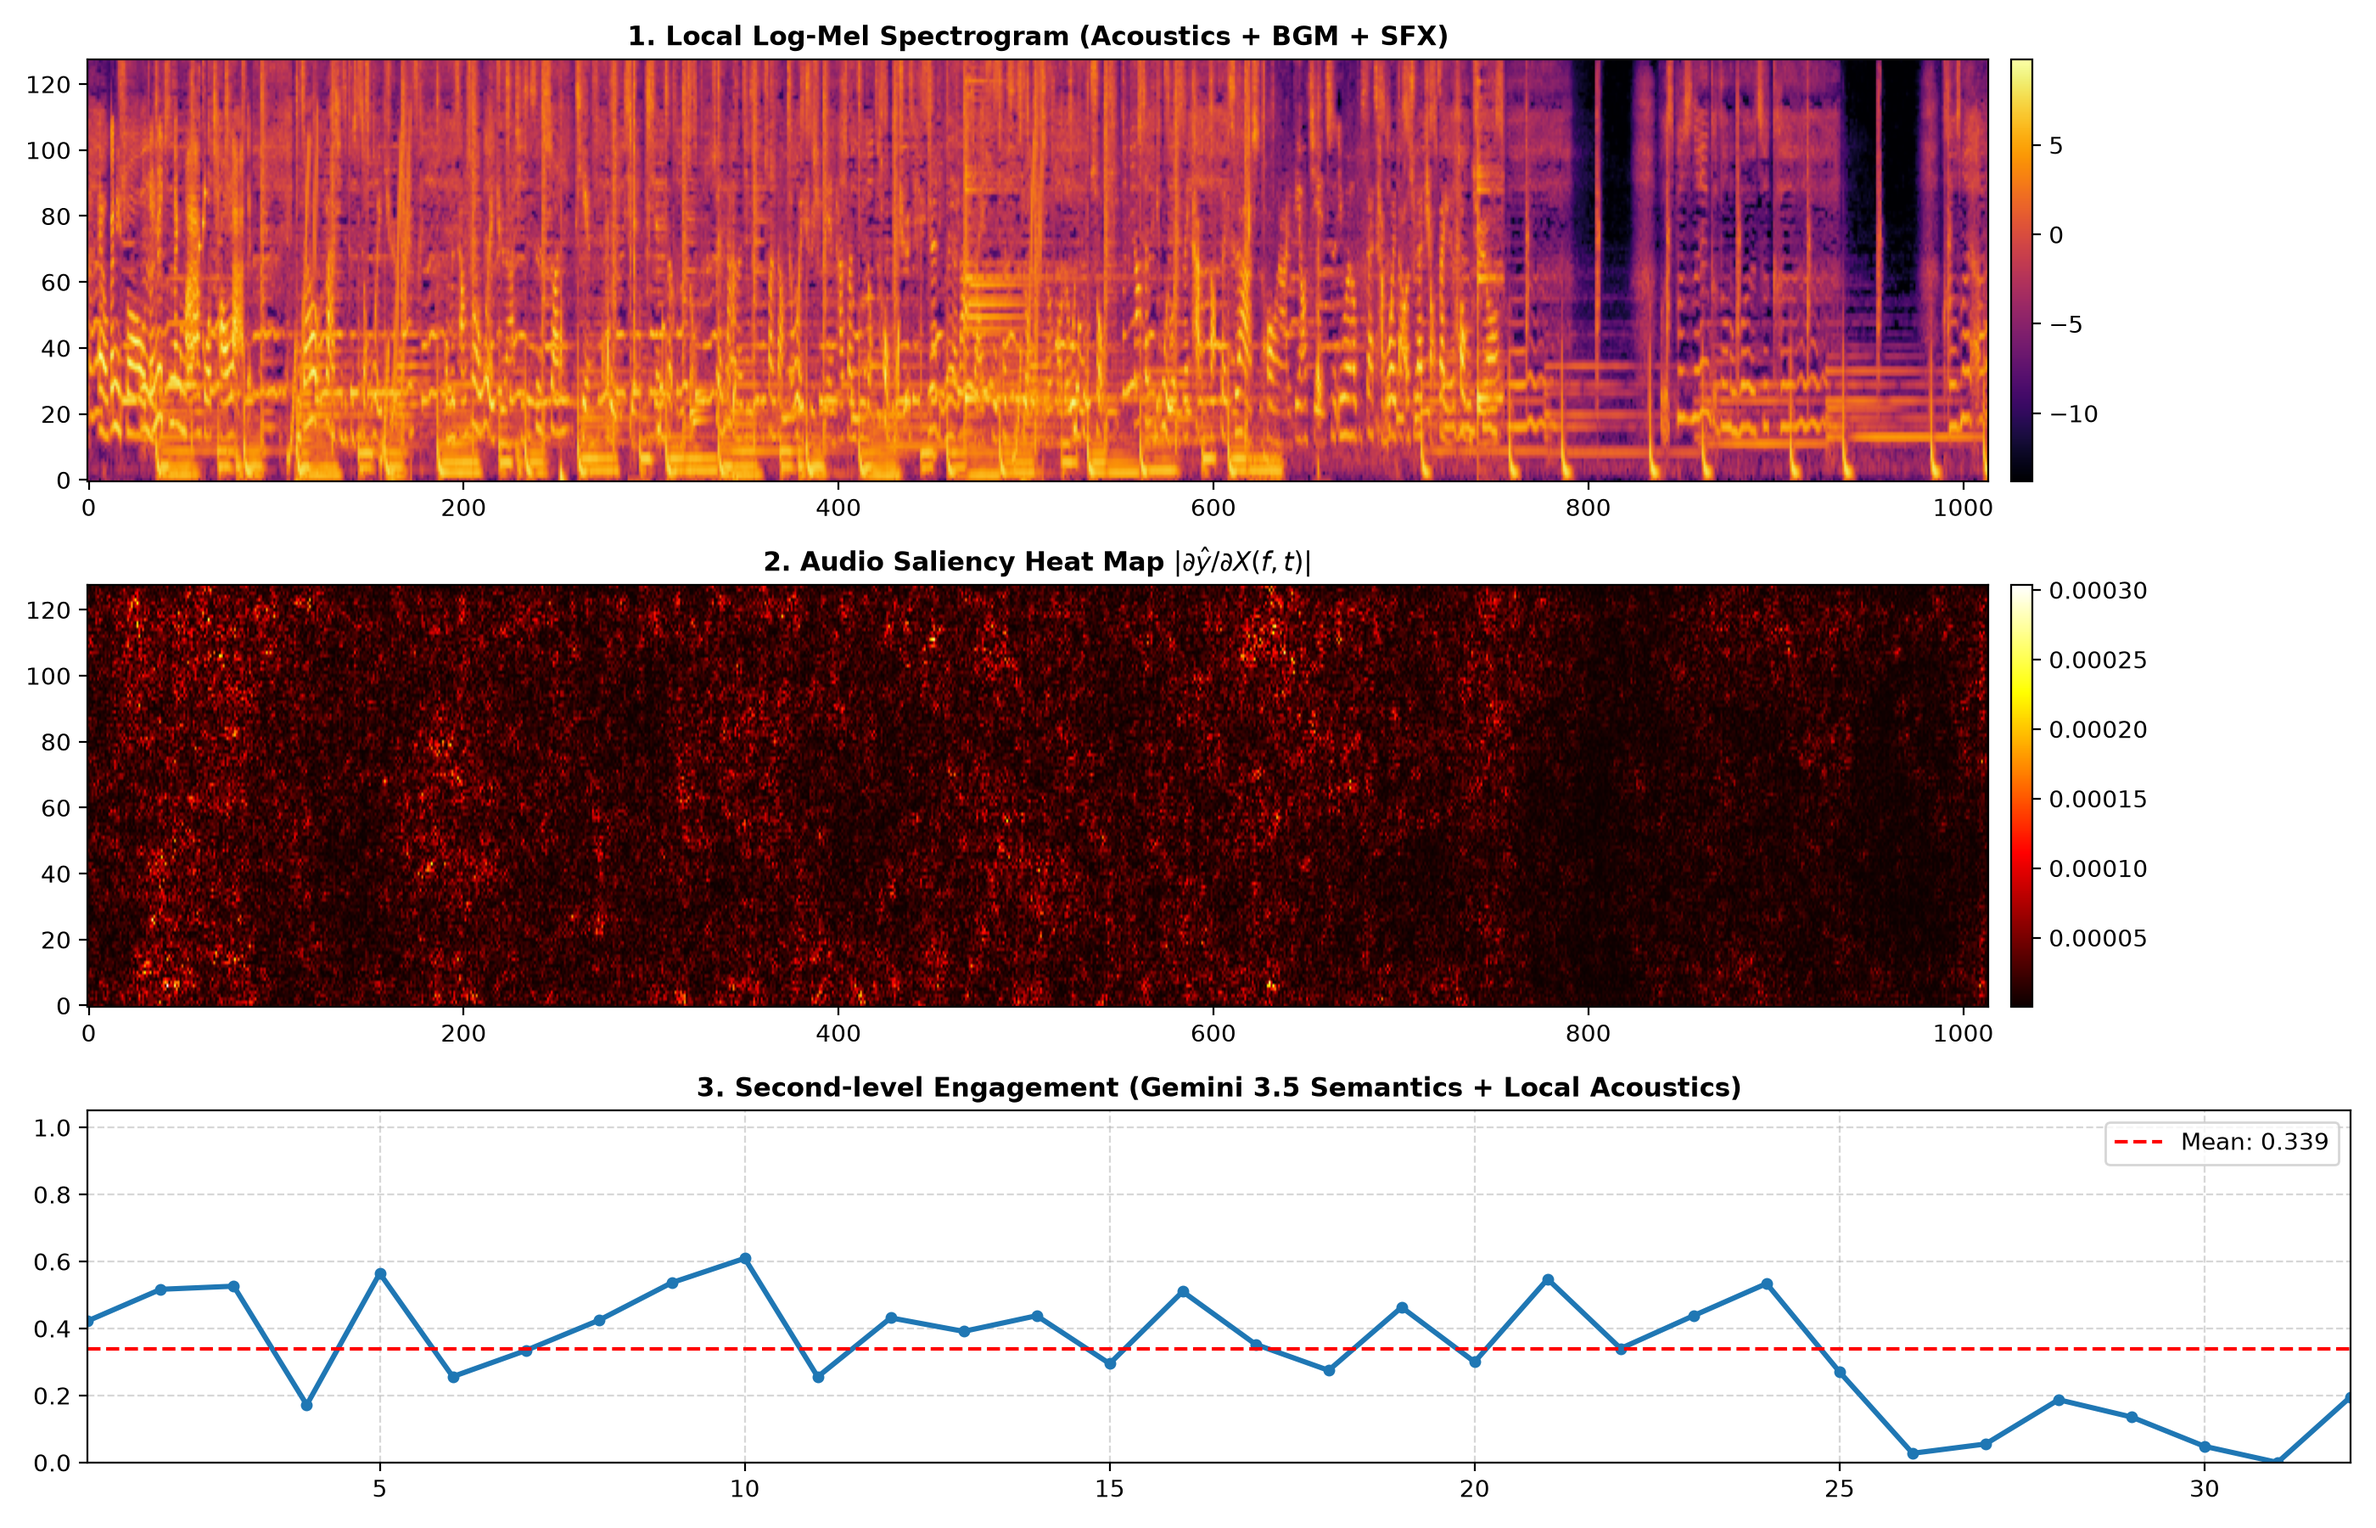
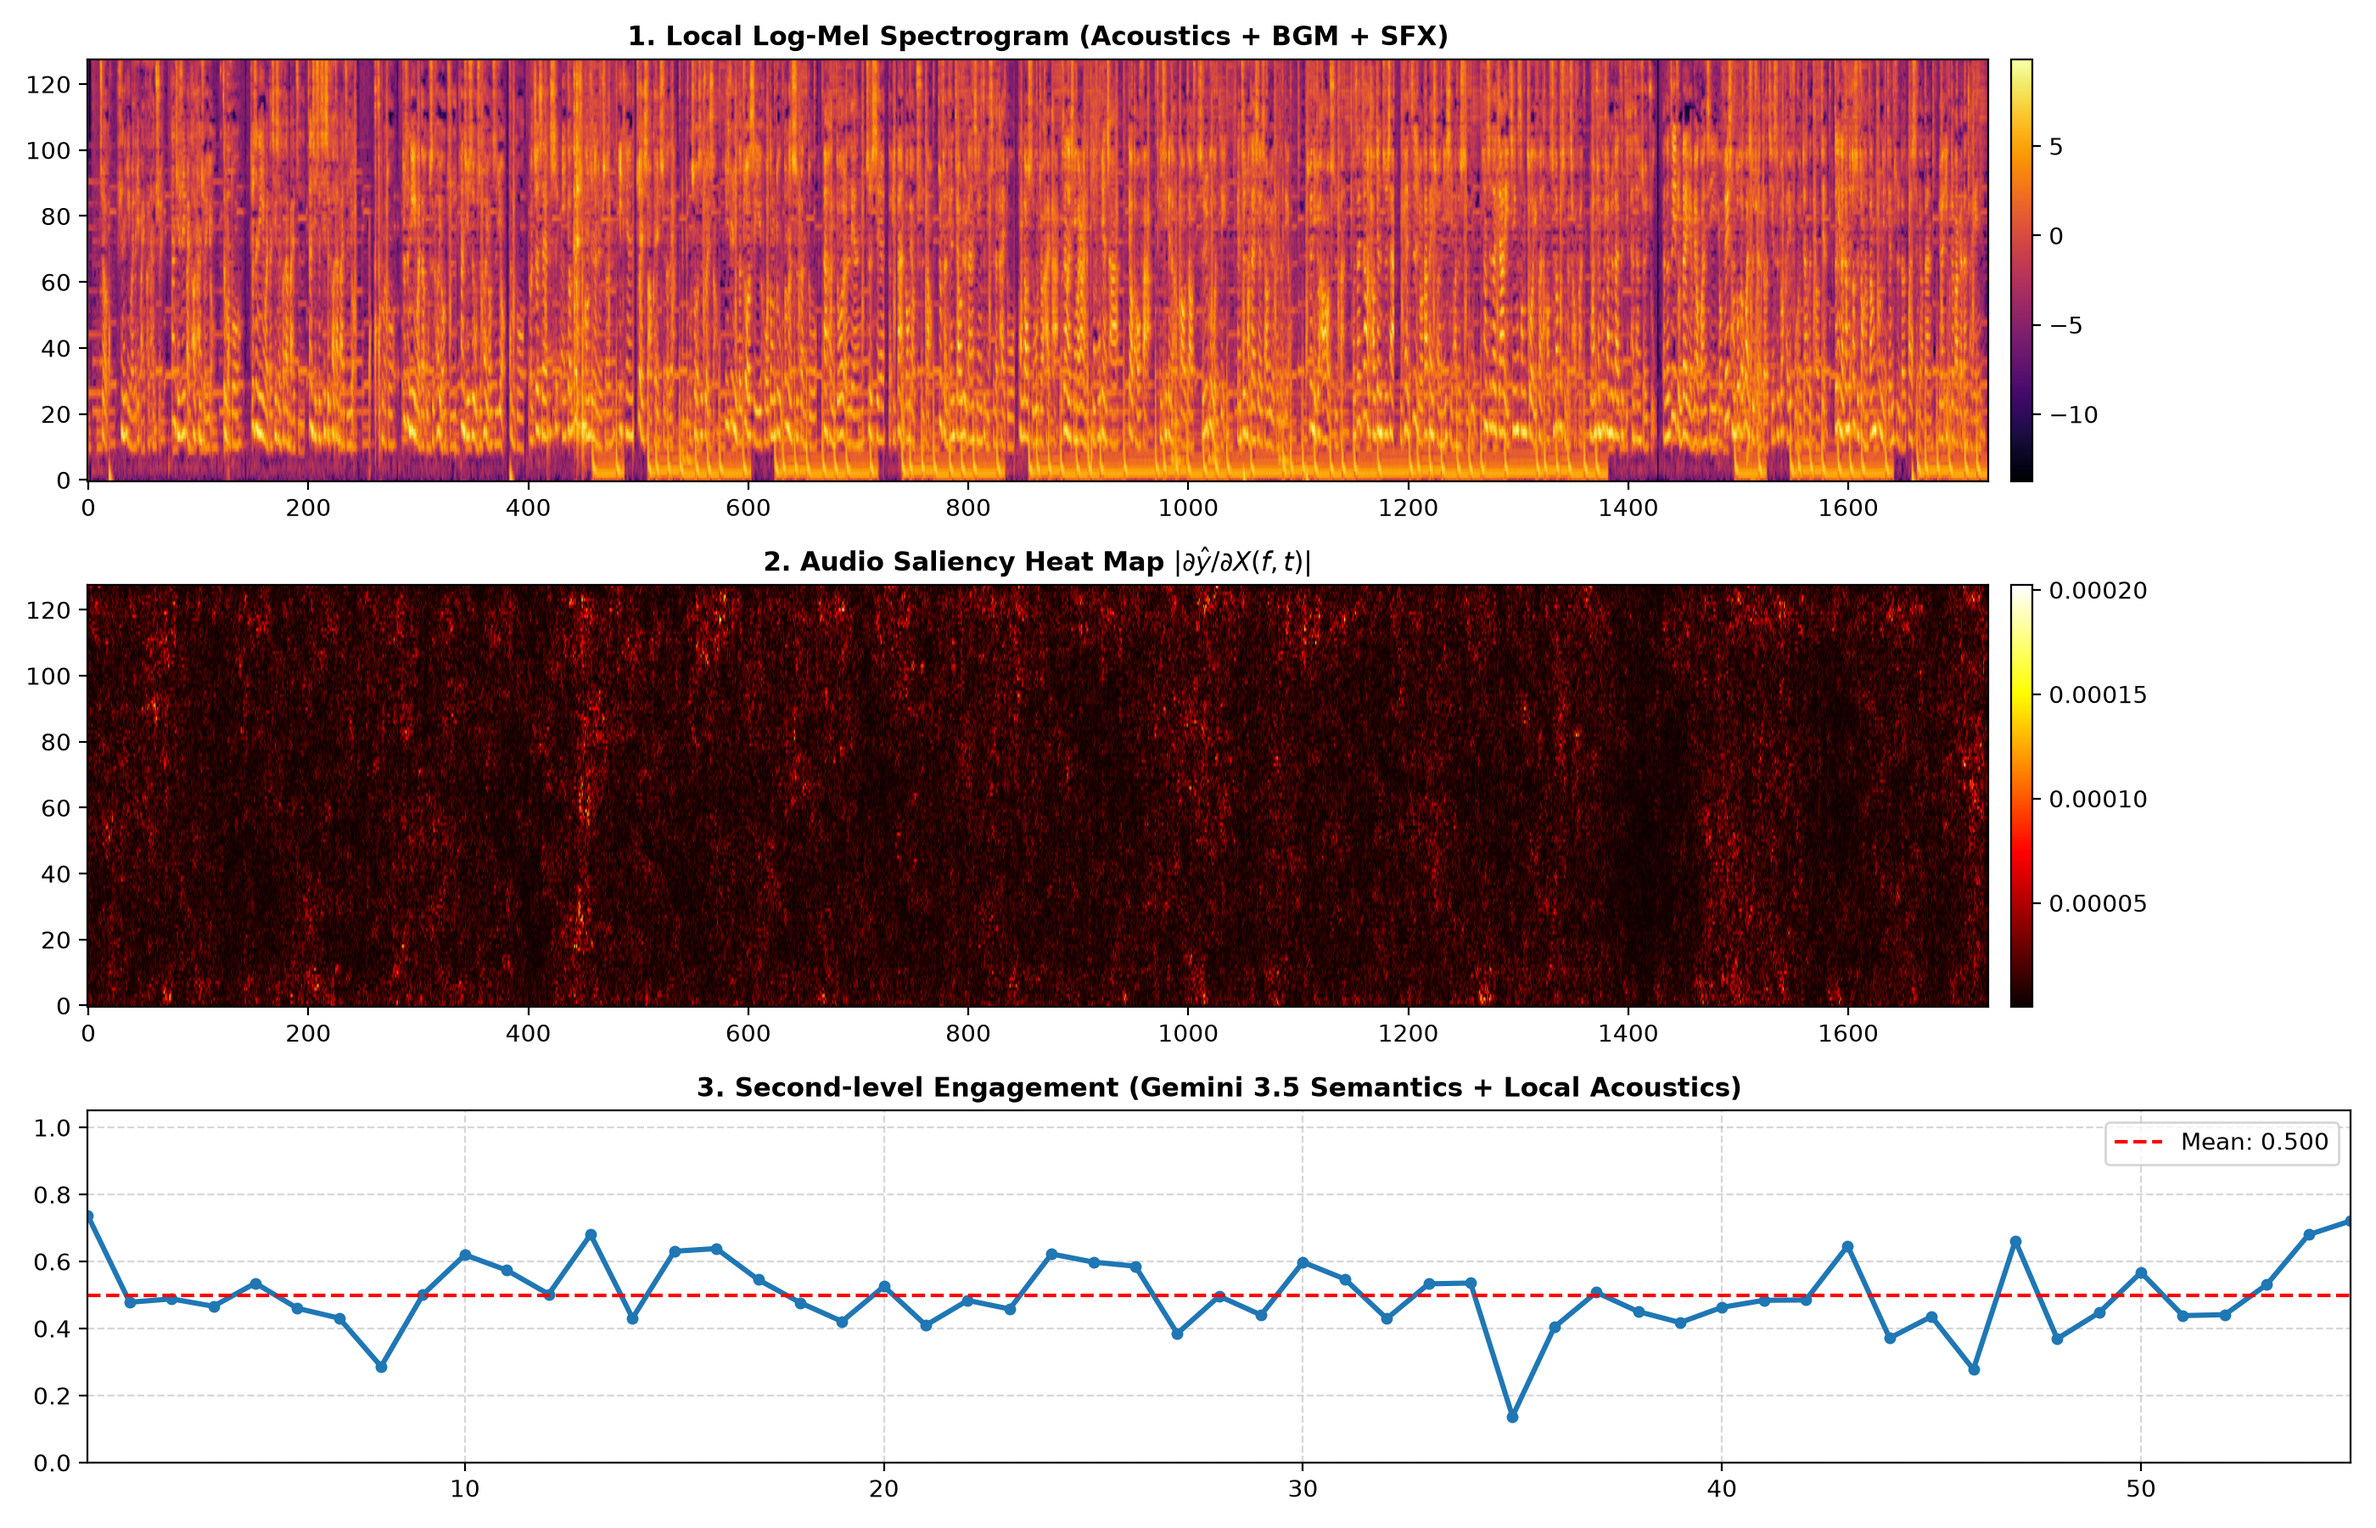
Surface Commit

diff --git a/pythonProject/dual_stream_audio_saliency.py b/pythonProject/dual_stream_audio_saliency.py
@@ -473,7 +473,7 @@ def run_gemini_audio_pipeline(
 
 
 if __name__ == "__main__":
-  AUDIO_PATH = r"C:\Users\Anthony\Desktop\video_002.mp3"
+  AUDIO_PATH = r"C:\Users\Anthony\Desktop\video_001.mp3"
 
   if not os.path.exists(AUDIO_PATH):
     AUDIO_PATH = "demo_test.wav"
